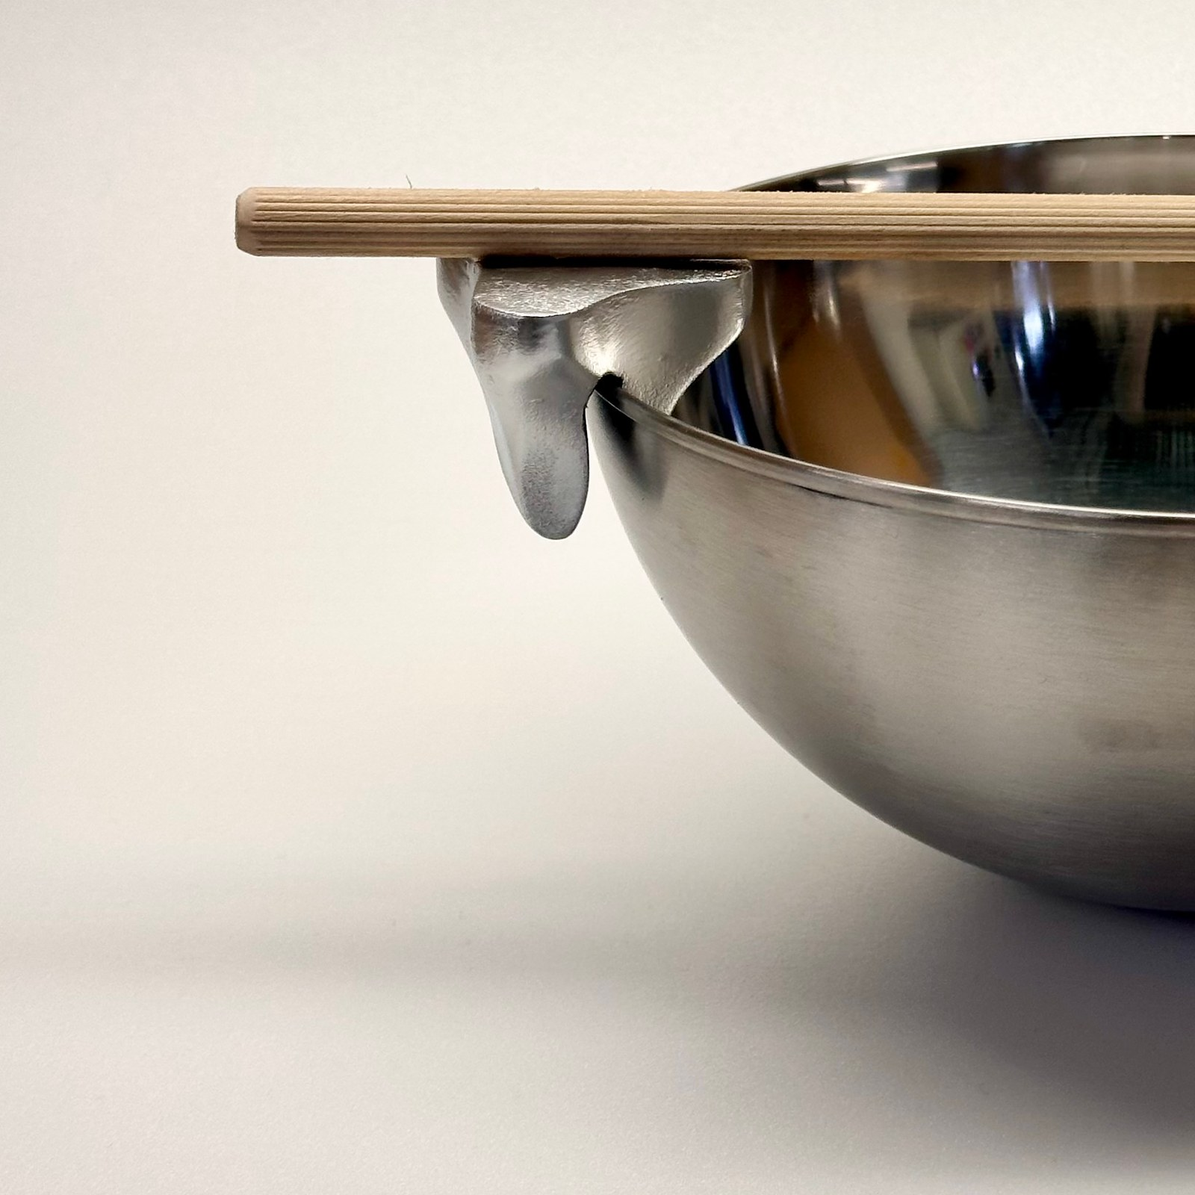
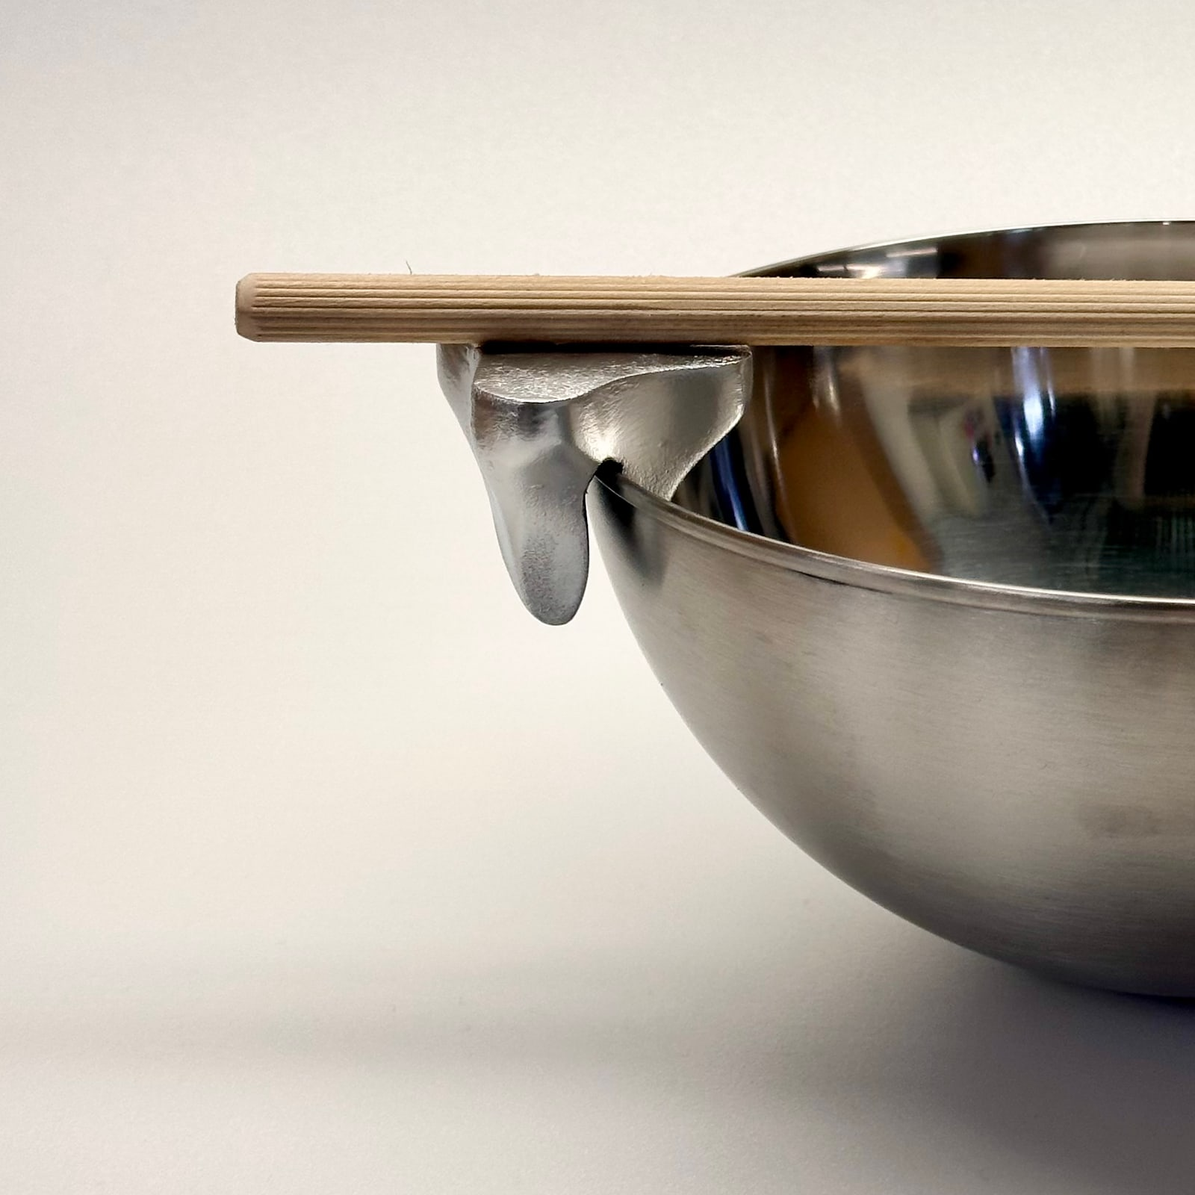
The hero sits lower, and Testing argues instead of listing
THE MASTHEAD COMES DOWN 140px IN ITS FRAME. Jack: "bring it down a bit in
the frame so we get a bit more white space in the top." Same 1950px window,
moved up the source to 80,670, so the subject moves down by exactly what the
window moves up.

The old comment in here was wrong and had survived two crops of the picture
it described. It said the shadow ended about 2490 and claimed 16% of clear
frame above the rod and below it. Profiled across the window's own x range,
the rod's top edge is y 1025 and the bowl's cast shadow runs to 2745 - so at
top 810 there were 215 source px over the rod and FIFTEEN under the shadow.
The frame was not balanced, it was flush to the bottom, which is the thing
Jack was looking at. Air over the rod is 18% of the output frame now against
11%; the bowl's foot lands at 83% where it was 76%. 190px was rendered and
rejected, because at that point the bowl reads as resting on the frame edge
rather than standing on ground.

TESTING IS METHOD / FINDING / IMPLICATION, in Jack's words. It was a
two-item list - "Fit testing" and "Product photography" - which named what
he DID twice and what he LEARNED nowhere. The rim is the finding, and the
next section opens on rim fit, so the implication is the hinge between them.
Set as a <ul> with <strong> leads, the same shape as The problem, in all
four languages.

AND THE RIM SHOT MOVED BESIDE IT, which cost a crop rather than any code -
`aside: true` is the flag Research already uses. "You may have to crop the
[…]

diff --git a/script.js b/script.js
@@ -226,34 +226,48 @@ const projectData = {
       lede: 'proj.pot-clip.cs.lede',
       tocLabel: 'proj.pot-clip.cs.toc',
       /* CROPPED 1.55x TIGHTER THAN THE FRAME, from the original HEIC rather
-         than from the 1600px export: a 1950px window at 80,810 of the
-         3024x3024 source. It has moved in and left three times - 1.00, then
-         1.24 at left 584, then 1.24 at left 284, now this. Jack each time:
-         "zoom in on it just a bit and center the product", then "have it to
-         the right more so we see more white space on the left", then "even
-         more zoomed in and even more to the right".
+         than from the 1600px export: a 1950px window at 80,670 of the
+         3024x3024 source. It has moved four times - 1.00, then 1.24 at
+         left 584, then 1.24 at left 284, then 1.55 at 80,810, now 140px
+         higher up the source. Jack each time: "zoom in on it just a bit and
+         center the product", then "have it to the right more so we see more
+         white space on the left", then "even more zoomed in and even more
+         to the right", then "bring it down a bit in the frame so we get a
+         bit more white space in the top".
            THE TWO ASKS PULL THE SAME WAY, which is why they arrive together.
          Moving the WINDOW left moves the SUBJECT right, and zooming in means
          a smaller window - so both are paid for out of the right edge, where
          the bowl was already running off the source when the photograph was
          taken. That is the cheapest thing in the frame; protecting every
          pixel of it is what made the first version wrong.
-           VERTICAL IS RE-CENTRED ON THE SUBJECT each time rather than left
-         where it was: the rod's top is at y 1081 and the shadow ends about
-         2490, so there was far more air above and below than beside, and a
-         zoom should come out of that before it comes out of the object.
-         This leaves 16% of the frame over the rod and under the shadow.
+           VERTICAL IS MEASURED NOW, AND THE OLD NUMBER IN HERE WAS WRONG.
+         This comment said the shadow ended about 2490 and claimed 16% of
+         clear frame above the rod and below it. Profiled across the window's
+         own x range, the rod's top edge is y 1025 and the bowl's cast shadow
+         runs to 2745 - so at top 810 the air above the rod was 215 source
+         px and the air under the shadow 15. The frame was not balanced, it
+         was flush to the bottom, which is what Jack was looking at: "bring
+         it down a bit in the frame so we get a bit more white space in the
+         top."
+           140px UP, AND IT IS PAID FOR OUT OF THE SHADOW'S TAIL. Moving the
+         window up moves the subject DOWN, so the top gains what the bottom
+         gives, and what the bottom gives is the faintest 140px of a diffuse
+         shadow (its last row cut sits 30 levels off the paper). The air over
+         the rod goes from 11% of the output frame to 18%; the bowl's foot
+         lands at 83% where it was 76%. 190px was rendered and rejected - the
+         bowl is 91% down the frame there and reads as resting on the edge.
            1.55 AND NOT MORE. 1.68 was rendered and rejected - the bowl stops
          reading as a bowl and becomes a fragment running off two edges, so
          the picture reads as a crop of a photograph rather than a composed
          one. At 1.55 the clip is the subject, the bowl is still a bowl, and
          the left edge carries 299px of the 1600 in clear ground.
-           THIS IS THE SECOND RENAME IN TWO COMMITS, which is the signal: a
-         third pass at this crop should move to the mesh's ?v= content hash
-         instead of inventing a third filename. See the cache note in
-         CLAUDE.md for why the bytes cannot change at a live path. */
-      hero: { src: '/assets/projects/pot-clip/cs-hero-clip.jpg?v=efbfbfe5', w: 1600, h: 1600,
-        full: '/assets/projects/pot-clip/cs-hero-clip.jpg?v=efbfbfe5',
+           THE FILENAME STOPPED MOVING AT THE THIRD PASS. It went cs-hero ->
+         cs-hero-bowl -> cs-hero-clip, one name per crop, until the ?v=
+         content hash landed; this fourth crop changes the bytes in place and
+         tools/asset-rev.js rewrites the query from the file itself. See the
+         cache note in CLAUDE.md. */
+      hero: { src: '/assets/projects/pot-clip/cs-hero-clip.jpg?v=8579a9d8', w: 1600, h: 1600,
+        full: '/assets/projects/pot-clip/cs-hero-clip.jpg?v=8579a9d8',
         altKey: 'proj.pot-clip.cs.alt.hero' },
       meta: [
         ['proj.pot-clip.cs.meta.context', 'proj.pot-clip.cs.meta.contextV'],
@@ -393,15 +407,41 @@ const projectData = {
             ] },
           ] },
 
+        /* THE SECOND SECTION TO TAKE ITS PHOTOGRAPH BESIDE THE PROSE, and
+           the flag paid for itself here rather than needing anything new.
+           Jack: "move the current photo under it to the right of the text,
+           but you may have to crop the height because it is quite tall."
+           The rim shot was shipped at 1000x1778 - the full 9:16 frame - so
+           under the prose it drew 924px tall on a 924px column, a screen of
+           one photograph at the end of a three-point argument.
+             METHOD / FINDING / IMPLICATION, in Jack's own words. It was a
+           two-item list - "fit testing" and "product photography" - which
+           named what he DID twice and what he LEARNED nowhere. The rim is
+           the finding, and the next section opens on rim fit, so the
+           implication is the hinge between them. */
         { id: 'testing', title: 'proj.pot-clip.cs.testing.t',
           stats: [
             ['proj.pot-clip.cs.testing.s1n', 'proj.pot-clip.cs.testing.s1t'],
             ['proj.pot-clip.cs.testing.s2n', 'proj.pot-clip.cs.testing.s2t'],
           ],
-          html: 'proj.pot-clip.cs.testing.b',
+          html: 'proj.pot-clip.cs.testing.b', aside: true,
+          /* OUT OF ITS PHONE FRAME. The source is 3213x5712 held upright
+             and the object only occupies y 2877-4850 of it, so the top 45%
+             of the 9:16 export was empty ground - which is why it drew 600
+             tall beside 256 of prose. A 2613x2465 window at 600,2631 of the
+             original puts 10% of clear frame above and below the bowl and
+             leaves the rod's left end 47px of air at output scale; the bowl
+             runs off the right edge in the source, so that edge stays flush
+             the way the masthead's does.
+               NEAR-SQUARE IS AS TIGHT AS THIS SUBJECT GOES. The object's own
+             bounding box is 2244x2001, aspect 1.12, so a frame letterboxed
+             enough to match the prose exactly would have no margin left to
+             give it. At 340x321 it sits 37-93px over the prose depending on
+             the language, against Research's 34 - the same ragged bottom,
+             not a column of photograph. */
           figures: [
-            { src: '/assets/projects/pot-clip/cs-rim.jpg?v=8f0f0861', w: 1000, h: 1778,
-              full: '/assets/projects/pot-clip/cs-rim.jpg?v=8f0f0861',
+            { src: '/assets/projects/pot-clip/cs-rim.jpg?v=1d1c3603', w: 1000, h: 943,
+              full: '/assets/projects/pot-clip/cs-rim.jpg?v=1d1c3603',
               altKey: 'proj.pot-clip.cs.alt.rim' },
           ] },
 
@@ -1112,15 +1152,21 @@ function renderCaseStudy(data) {
         '<div class="cs-stat">' + csText('span', 'cs-stat-num', p[0])
         + csText('span', 'cs-stat-txt', p[1]) + '</div>').join('') + '</div>';
     }
-    /* `aside` puts the figures BESIDE the prose instead of under it. One
-       section wants it - Research, which is four definition pairs and so
-       the tallest column of plain text on the page, with a portrait
-       photograph that was sitting below all of it doing nothing for the
-       shape. Jack: "move the alessi photo to the right of the research
-       text to help that section visually."
+    /* `aside` puts the figures BESIDE the prose instead of under it. Two
+       sections want it. Research is four definition pairs and so the
+       tallest column of plain text on the page, with a portrait photograph
+       that was sitting below all of it doing nothing for the shape: "move
+       the alessi photo to the right of the research text to help that
+       section visually." Testing is three short paragraphs with one very
+       tall photograph: "move the current photo under it to the right of
+       the text, but you may have to crop the height because it is quite
+       tall."
          A flag rather than a rule, because it only pays where the prose is
        tall enough to stand a column beside it; under a short paragraph the
-       same photograph would just be a small picture in a wide gap. */
+       same photograph would just be a small picture in a wide gap. And the
+       SIBLING has to be cropped to suit - a 9:16 frame in the 340 column
+       draws 600px beside 256px of prose, which is the shape this flag is
+       supposed to fix rather than a use of it. */
     const prose = (sec.html ? csText('div', 'cs-prose', sec.html, true) : '')
       + (sec.text ? csText('p', 'cs-prose-p', sec.text) : '');
     out += sec.aside

diff --git a/i18n.js b/i18n.js
@@ -129,7 +129,7 @@
       'proj.pot-clip.cs.testing.s1t': "of pots tried held securely, all with smaller or thinner rims",
       'proj.pot-clip.cs.testing.s2n': "1 shoot",
       'proj.pot-clip.cs.testing.s2t': "held utensils securely through a full product shoot",
-      'proj.pot-clip.cs.testing.b': "<ul><li><strong>Fit testing.</strong> I tried the model on pots of different sizes. It held securely on three, about half of the pots I tried, all with smaller or thinner rims. It didn’t fit well on larger pots with thicker rims.</li><li><strong>Product photography.</strong> It held utensils securely through a full product shoot.</li></ul>",
+      'proj.pot-clip.cs.testing.b': "<ul><li><strong>Method.</strong> I tested the model on pots of different sizes to see where the clip holds and where it fails.</li><li><strong>Finding.</strong> The rim decided whether it works. On smaller pots with thin rims, the rest held securely, including through a full product shoot. On larger pots with thicker rims, it slipped.</li><li><strong>Implication.</strong> One fixed clip profile can’t serve every pot. That made rim fit the top priority for the next version.</li></ul>",
       'proj.pot-clip.cs.posters.t': "Posters and packaging",
       'proj.pot-clip.cs.posters.b': "I designed poster and packaging concepts that draw on current graphic design trends and on Alessi’s existing posters.",
       'proj.pot-clip.cs.limits.t': "Limitations and next steps",
@@ -392,7 +392,7 @@
       'proj.pot-clip.cs.testing.s1t': "de las ollas probadas sujetaron bien, todas de borde más pequeño o fino",
       'proj.pot-clip.cs.testing.s2n': "1 sesión",
       'proj.pot-clip.cs.testing.s2t': "sostuvo los utensilios con seguridad durante una sesión de producto completa",
-      'proj.pot-clip.cs.testing.b': "<ul><li><strong>Pruebas de ajuste.</strong> Probé el modelo en ollas de distintos tamaños. Sujetó bien en tres, cerca de la mitad de las que probé, todas de borde más pequeño o fino. No encajó bien en ollas grandes de borde grueso.</li><li><strong>Fotografía de producto.</strong> Sostuvo los utensilios con seguridad durante una sesión completa.</li></ul>",
+      'proj.pot-clip.cs.testing.b': "<ul><li><strong>Método.</strong> Probé el modelo en ollas de distintos tamaños para ver dónde sujeta el soporte y dónde falla.</li><li><strong>Hallazgo.</strong> El borde decidía si funcionaba. En ollas pequeñas de borde fino sujetó bien, incluso durante una sesión de producto completa. En ollas grandes de borde grueso se resbalaba.</li><li><strong>Implicación.</strong> Un solo perfil de pinza no puede servir para todas las ollas. Eso convirtió el ajuste al borde en la prioridad de la siguiente versión.</li></ul>",
       'proj.pot-clip.cs.posters.t': "Carteles y packaging",
       'proj.pot-clip.cs.posters.b': "Diseñé conceptos de cartel y packaging que parten de tendencias actuales del diseño gráfico y de los propios carteles de Alessi.",
       'proj.pot-clip.cs.limits.t': "Limitaciones y próximos pasos",
@@ -653,7 +653,7 @@
       'proj.pot-clip.cs.testing.s1t': "の鍋でしっかり保持できた。いずれもふちが小さいか薄いもの",
       'proj.pot-clip.cs.testing.s2n': "撮影1本",
       'proj.pot-clip.cs.testing.s2t': "製品撮影を通して器具をしっかり保持した",
-      'proj.pot-clip.cs.testing.b': "<ul><li><strong>適合テスト。</strong> 大きさの異なる鍋で試した。3つ、試した鍋の約半数でしっかり保持でき、いずれもふちが小さいか薄いものだった。ふちの厚い大きな鍋にはうまく合わなかった。</li><li><strong>製品撮影。</strong> 撮影を通して器具をしっかり保持した。</li></ul>",
+      'proj.pot-clip.cs.testing.b': "<ul><li><strong>方法。</strong> 大きさの異なる鍋で試し、どこで留まり、どこで外れるかを確かめた。</li><li><strong>わかったこと。</strong> 決め手はふちだった。ふちの薄い小さめの鍋では、製品撮影を通してもしっかり保持できた。ふちの厚い大きな鍋では滑った。</li><li><strong>意味すること。</strong> 形の決まったクリップひとつですべての鍋には対応できない。そのため次の版ではふちへの適合が最優先になった。</li></ul>",
       'proj.pot-clip.cs.posters.t': "ポスターとパッケージ",
       'proj.pot-clip.cs.posters.b': "現在のグラフィックデザインの傾向と、Alessi既存のポスターを踏まえて、ポスターとパッケージのコンセプトをデザインした。",
       'proj.pot-clip.cs.limits.t': "限界と次のステップ",
@@ -914,7 +914,7 @@
       'proj.pot-clip.cs.testing.s1t': "delle pentole provate ha retto bene, tutte con bordi più piccoli o sottili",
       'proj.pot-clip.cs.testing.s2n': "1 shooting",
       'proj.pot-clip.cs.testing.s2t': "ha retto gli utensili per un intero shooting di prodotto",
-      'proj.pot-clip.cs.testing.b': "<ul><li><strong>Prove di calzata.</strong> Ho provato il modello su pentole di misure diverse. Ha retto bene su tre, circa metà di quelle provate, tutte con bordi più piccoli o sottili. Non si adattava bene a pentole grandi con bordi spessi.</li><li><strong>Fotografia di prodotto.</strong> Ha retto gli utensili per un intero shooting.</li></ul>",
+      'proj.pot-clip.cs.testing.b': "<ul><li><strong>Metodo.</strong> Ho provato il modello su pentole di misure diverse, per vedere dove il supporto tiene e dove cede.</li><li><strong>Risultato.</strong> A decidere era il bordo. Su pentole più piccole con bordi sottili ha retto bene, anche per un intero shooting di prodotto. Su pentole grandi con bordi spessi scivolava.</li><li><strong>Implicazione.</strong> Un solo profilo di aggancio non può servire ogni pentola. Questo ha reso la calzata sul bordo la priorità della versione successiva.</li></ul>",
       'proj.pot-clip.cs.posters.t': "Manifesti e packaging",
       'proj.pot-clip.cs.posters.b': "Ho progettato concept di manifesto e packaging che partono dalle tendenze grafiche attuali e dai manifesti Alessi esistenti.",
       'proj.pot-clip.cs.limits.t': "Limiti e prossimi passi",

diff --git a/styles.css b/styles.css
@@ -3274,8 +3274,8 @@ body.is-loading { overflow: hidden; }
 .cs-prose strong { font-weight: 700; }
 
 /* ---- prose with a photograph beside it --------------------------------
-   Only Research uses it, off the `aside` flag. A fixed 340px column rather
-   than a fraction: the picture is the supporting half, so it should not
+   Research and Testing use it, off the `aside` flag. A fixed 340px
+   column rather than a fraction: the picture is the supporting half, so it should not
    widen with the viewport and push the text it supports into a narrow
    measure. That leaves the prose 548px at 1440, which is where it wants to
    be anyway.

diff --git a/CLAUDE.md b/CLAUDE.md
@@ -1687,7 +1687,12 @@ is synthetic bold and a smeared glyph. Nine tracked classes also reset
 `letter-spacing`, since tracking tuned for uppercase Latin reads as broken
 spacing in a script with no word spaces.
 
-**Photographs keep their natural ratios and nothing is cropped.**
+**Photographs keep their natural ratios inside a row, and nothing is
+cropped to even a row up.** Individual frames ARE cropped, where the
+photograph has room in that direction and the page needs a shape — the
+masthead, the render, both of card 1's and the rim shot all are, each noted
+where it is set. What stays banned is cropping to make two pictures the same
+height as each other.
 Equal-height rows were the obvious alternative and they cost the pictures: a
 1000×1778 spray booth forced into 3:2 loses 44% of its height, and the part
 a process photo is for is the part that gets cropped. Ragged bottoms are
@@ -1793,8 +1798,8 @@ already answered — sitting directly above a process card that is itself a
 photograph of a notebook page. The files stay in `assets/`;
 `proj.pot-clip.alt.4` and the rest are in the restore note.
 
-**RESEARCH PUTS ITS PHOTOGRAPH BESIDE ITS PROSE**, off an `aside` flag and
-`.cs-split`. Jack: *"move the alessi photo to the right of the research
+**TWO SECTIONS PUT THEIR PHOTOGRAPH BESIDE THEIR PROSE**, off an `aside`
+flag and `.cs-split`. Jack: *"move the alessi photo to the right of the research
 text to help that section visually."* That section is four definition pairs,
 so it is the tallest column of plain text on the page, and the storefront
 was a portrait sitting under all of it doing nothing for the shape. The
@@ -1865,6 +1870,32 @@ the entry shapes with `/assets/projects/x/01.jpg` as an example.
 **A flag, not a rule**: it only pays where the prose is tall enough to stand
 a column beside it. Under a short paragraph the same photograph is a small
 picture in a wide gap.
+**TESTING IS THE SECOND, AND IT COST A CROP RATHER THAN ANY CODE.** Jack:
+*"move the current photo under it to the right of the text, but you may have
+to crop the height because it is quite tall."* The rim shot shipped as the
+full 9:16 phone frame, 1000×1778, and the object only occupies the middle of
+it — so under the prose it drew a screenful of photograph at the end of a
+three-point argument. Re-cropped near-square from the original it is 340×321
+against 256 of English prose, and the section went **835px tall to 556**.
+**Near-square is as tight as that subject goes**: its own bounding box is
+2244×2001 in the source, aspect 1.12, so a frame letterboxed enough to match
+the prose exactly would have no margin left to put around it. Measured in
+all four languages the prose runs 228–284 against the photograph's 321, so
+it is 37–93px over — Research's is 34 over. **The sibling column may be a
+little taller than the prose; it must not be twice it.**
+**THE COPY IS METHOD / FINDING / IMPLICATION**, in Jack's words, replacing a
+two-item list headed "Fit testing" and "Product photography" — which named
+what he DID twice and what he LEARNED nowhere. The rim is the finding and
+the next section opens on rim fit, so the implication is the hinge between
+them. It is a `<ul>` with `<strong>` leads, the same shape as The problem,
+because three labelled sentences in a 548px column is exactly what that
+pattern is for.
+**One thing it leaves doubled**: the second stat still reads "held utensils
+securely through a full product shoot" and the finding now ends "including
+through a full product shoot", about 100px apart. The stats band is a
+different register and a scanner reads one or the other, so both stay —
+but it is the closest this page comes to the brief's "unnecessary
+descriptions", and it is Jack's sentence, so it is his to cut.
 **The photo column is a fixed 340px, not a fraction**, because it is the
 supporting half and should not widen with the viewport at the expense of the
 text it supports. **It stacks at 900, and 760 was wrong**: measured across
@@ -1889,23 +1920,34 @@ tooling rather than work, and a thing this codebase pointedly does not use.
 Centred on the render's own ink box (446–1661 × 570–1318 in a 2948×1578
 source), 1800×1200 at source scale, margins 293/292 and 226/226.
 **The masthead photograph is cropped 1.55× tighter than the frame**, from
-the original rather than the export: a 1950px window at 80,810 of the
-3024×3024 source. It has moved in and left three times — 1.00, then 1.24 at
-left 584, then 1.24 at left 284, now 1.55 at left 80 — on *"zoom in on it
-just a bit and center the product"*, then *"have it to the right more so we
-see more white space on the left"*, then *"even more zoomed in and even more
-to the right"*.
+the original rather than the export: a 1950px window at 80,670 of the
+3024×3024 source. It has moved four times — 1.00, then 1.24 at left 584,
+then 1.24 at left 284, then 1.55 at 80,810, now the same window 140px higher
+up the source — on *"zoom in on it just a bit and center the product"*, then
+*"have it to the right more so we see more white space on the left"*, then
+*"even more zoomed in and even more to the right"*, then *"bring it down a
+bit in the frame so we get a bit more white space in the top"*.
 **THE TWO ASKS PULL THE SAME WAY**, which is why they keep arriving
 together. Moving the WINDOW left moves the SUBJECT right, and zooming in
 means a smaller window — so both are paid for out of the right edge, where
 the bowl was already running off the source when the shot was taken. **That
 is the cheapest thing in the frame, and protecting every pixel of it is what
 made the first version wrong.**
-**Vertical is re-centred on the subject each time** rather than left where it
-was. The rod's top is at y 1081 and the shadow ends about 2490, so there was
-far more air above and below than beside it, and a zoom should come out of
-that before it comes out of the object. 16% of the frame over the rod and
-under the shadow.
+**VERTICAL IS MEASURED NOW, AND WHAT WAS WRITTEN HERE WAS WRONG.** This note
+said the shadow ended about 2490 and claimed 16% of clear frame above the
+rod and below it. Profiled across the window's own x range, the rod's top
+edge is y 1025 and the bowl's cast shadow runs to **2745** — so at top 810
+there were 215 source px of air above the rod and **15** below the shadow.
+The frame was not balanced, it was flush to the bottom, and that is what
+Jack was looking at when he asked for white space at the top. **A number in
+here that nobody re-measured survived two crops of the thing it describes.**
+**140px up, paid for out of the shadow's tail.** Moving the window up moves
+the subject DOWN, so the top gains exactly what the bottom gives, and what
+the bottom gives is the faintest 140px of a diffuse shadow — the row the cut
+lands on is 30 levels off the paper. Air over the rod goes from **11% of the
+output frame to 18%**, and the bowl's foot lands at 83% where it was 76%.
+**190px was rendered and rejected**: the bowl is 91% down the frame there
+and reads as resting on the edge rather than standing on ground.
 **1.55 and not more.** 1.68 was rendered and rejected: the bowl stops reading
 as a bowl and becomes a fragment running off two edges, so the picture reads
 as a crop of a photograph rather than a composed one. At 1.55 the clip is
